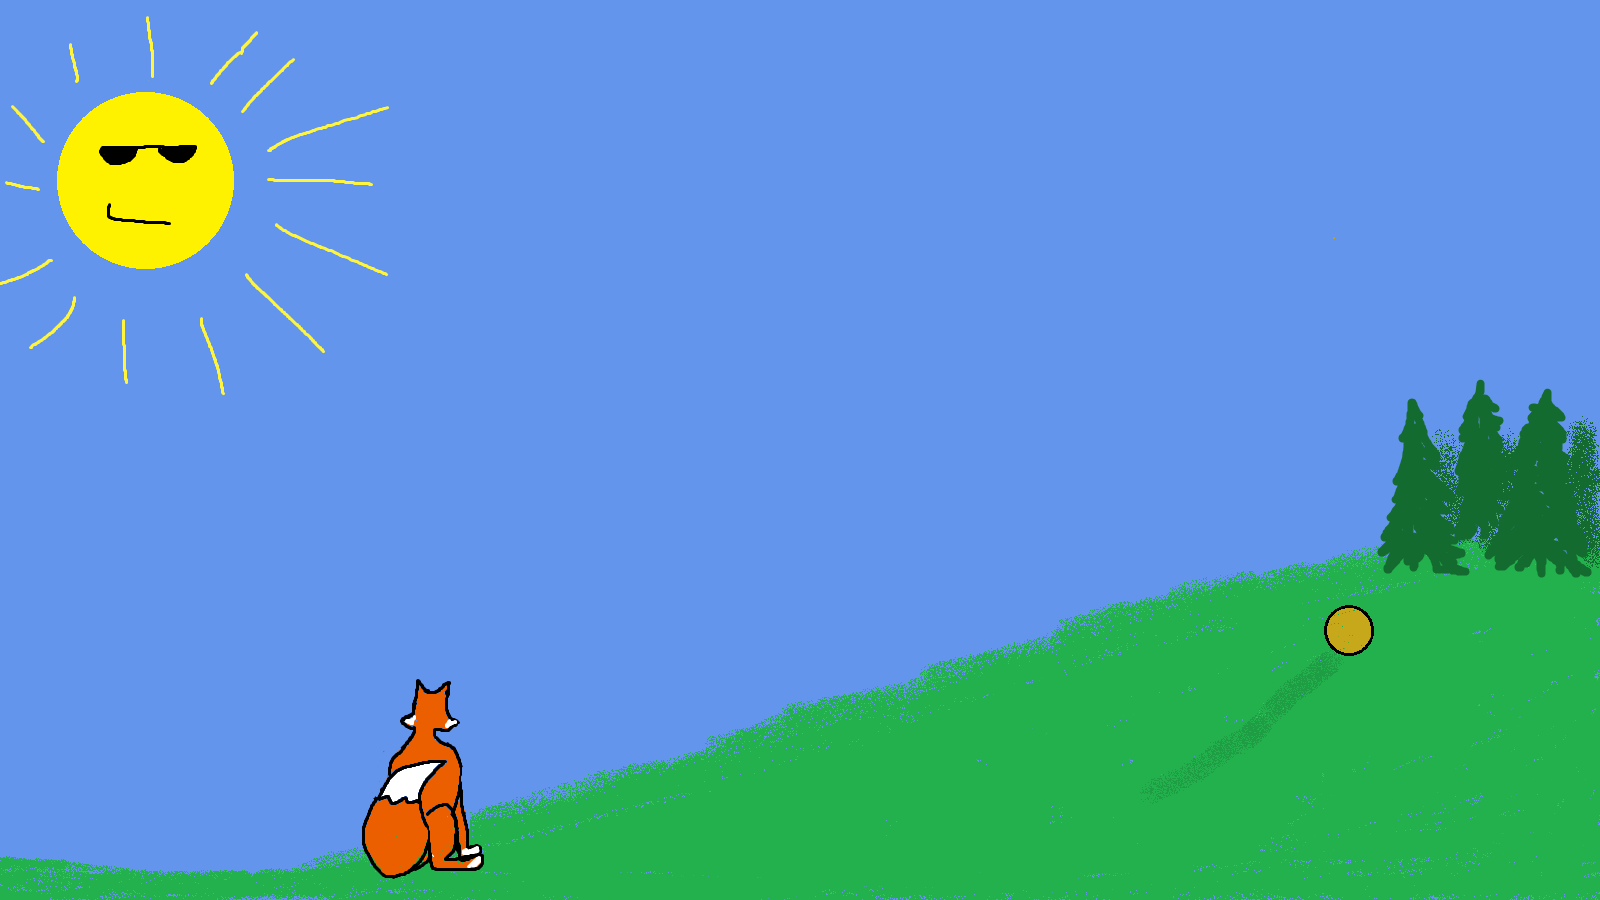
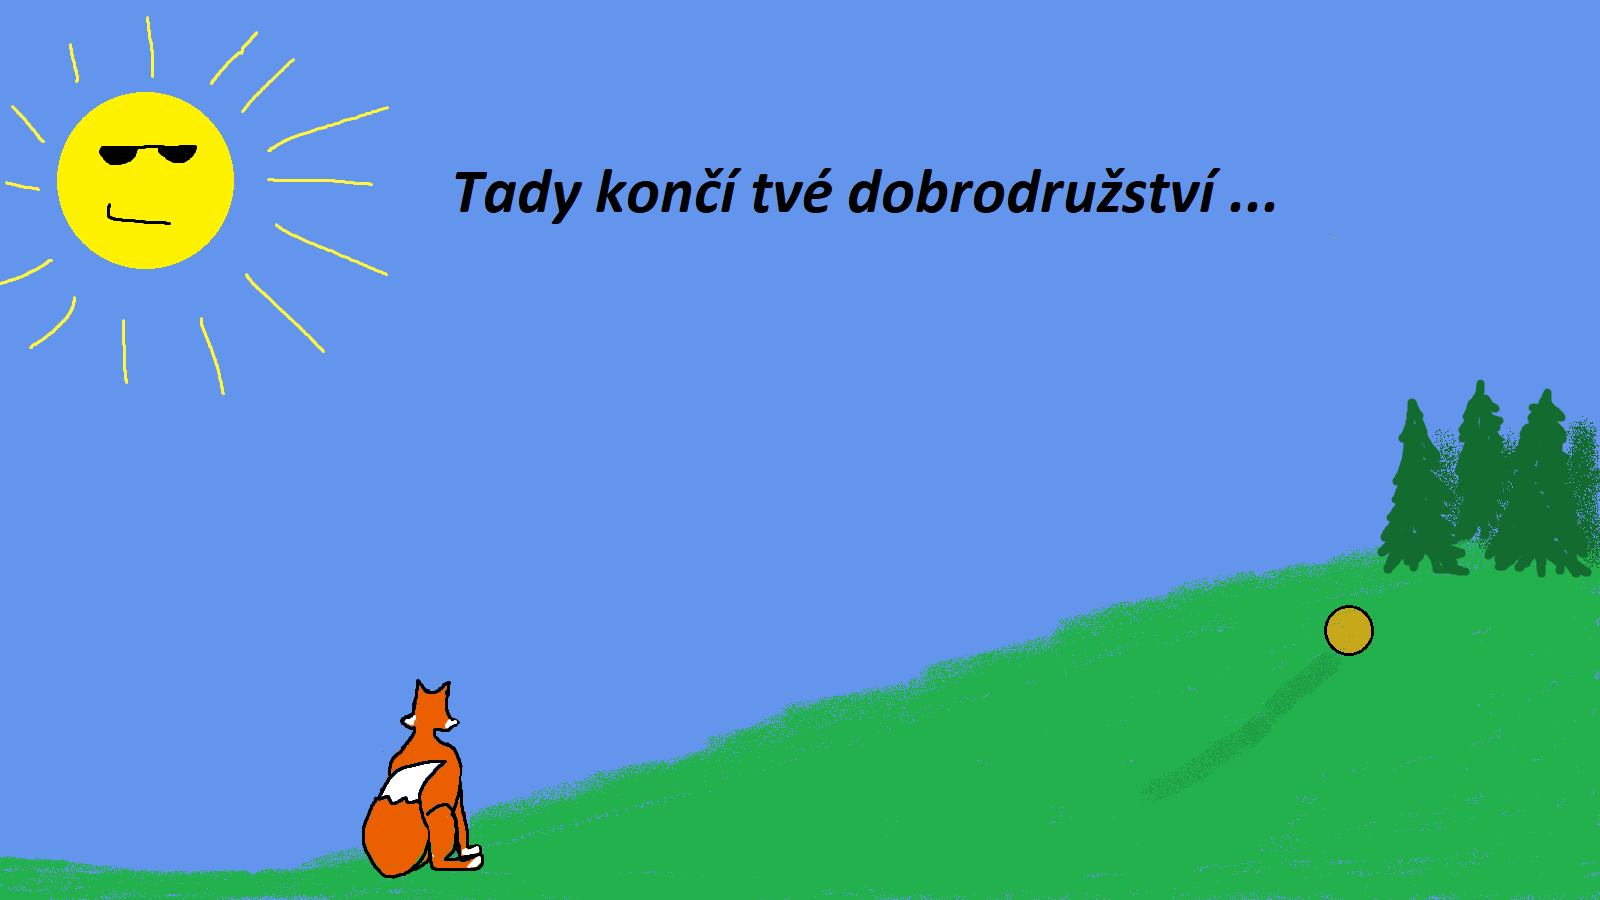
KONEC ŠMITEC FINÁLNÍ VERZE 1.0 ZDE
ok

Changed region(s): [[0.2812, 0.1867, 0.8125, 0.2489]]

diff --git a/Kobliha/Game1.cs b/Kobliha/Game1.cs
@@ -27,8 +27,8 @@ namespace Kobliha
         private int pocet_penez = 0;
         
         Koblizek kobliha;
-        NPC dedek, babka, vlk, zajic, medved, liska, stop1, stop2, stop3, stop4, lava;
-        Endingy ending1, ending2, ending3, ending4, ending5, ending6;
+        NPC dedek, babka, vlk, zajic, medved, liska, stop1, stop2, stop3, stop4, lava, vrtadlo, hovinko;
+        Endingy ending1, ending2, ending3, ending4, ending5, ending6, ending7;
         Zem zem1, zem2, zem3, zem4, zem5, zem6, zem7, zem8, zem9, zem10, zem11, zem12, zem13, zem14, zem15, zem16, zem17, zem18, zem19, zem20, zem21, zem22, zem23, zem24, zem25, zem26, zem27, zem28, zem29, zem30, zem31, zem32, zem33;
         Penize peniz1, peniz_ikona, peniz2, peniz3, peniz4, peniz5, peniz6;
         
@@ -91,6 +91,14 @@ namespace Kobliha
 
             stop4 = new NPC(GraphicsDevice, 100, "Content/obrazky/konec.png",
                 500, vyskaOkna - 600);
+            
+            vrtadlo = new NPC(GraphicsDevice, 100, "Content/obrazky/Vrtadlo1.png",
+                400, vyskaOkna - 600);
+
+            hovinko = new NPC(GraphicsDevice, 100, "Content/obrazky/hovinko.png",
+                800, vyskaOkna - 45);
+            
+            lava = new NPC(GraphicsDevice, 100, "Content/obrazky/lava.png", 100, 880);
 
             ending1 = new Endingy(GraphicsDevice, "Content/obrazky/ending1.png", 0, 0);
 
@@ -104,7 +112,8 @@ namespace Kobliha
             
             ending6 = new Endingy(GraphicsDevice, "Content/obrazky/ending6.png", 0, 0);
             
-            lava = new NPC(GraphicsDevice, 100, "Content/obrazky/lava.png", 100, 880);
+            ending7 = new Endingy(GraphicsDevice, "Content/obrazky/ending7.png", 0, 0);
+            
 
             //PLATFORMY
 
@@ -589,6 +598,11 @@ namespace Kobliha
                     kobliha.PoziceX = 400;
                     cislo_obrazovky = 7;
                 }
+
+                if (kobliha.PoziceX + kobliha.Velikost - 11 > hovinko.PoziceX && kobliha.PoziceX < hovinko.PoziceX + 50)
+                {
+                    konec = true;
+                }
             }
         }
        
@@ -691,6 +705,7 @@ namespace Kobliha
                 zem5.VykresliSe(_spriteBatch);
                 zem6.VykresliSe(_spriteBatch);
                 zem7.VykresliSe(_spriteBatch);
+                _spriteBatch.DrawString(spriteFont, "Skoc do prave zdi, aby jsi odesel z minihry", new Vector2(500, 30), Color.Black);
                 if (konec == true)
                 {
                     ending2.VykresliSe(_spriteBatch);
@@ -715,6 +730,7 @@ namespace Kobliha
                 zem16.VykresliSe(_spriteBatch);
                 zem17.VykresliSe(_spriteBatch);
                 zem18.VykresliSe(_spriteBatch);
+                _spriteBatch.DrawString(spriteFont, "Skoc do prave zdi, aby jsi odesel z minihry", new Vector2(500, 30), Color.Black);
                 if (konec == true)
                 {
                     ending3.VykresliSe(_spriteBatch);
@@ -743,6 +759,7 @@ namespace Kobliha
                 zem31.VykresliSe(_spriteBatch);
                 zem32.VykresliSe(_spriteBatch);
                 zem33.VykresliSe(_spriteBatch);
+                _spriteBatch.DrawString(spriteFont, "Skoc do prave zdi, aby jsi odesel z minihry", new Vector2(500, 30), Color.Black);
                 if (konec == true)
                 {
                     ending4.VykresliSe(_spriteBatch);
@@ -757,8 +774,13 @@ namespace Kobliha
 
             if (cislo_obrazovky == 14)
             {
-                zajic.VykresliSe(_spriteBatch);
-                vlk.VykresliSe(_spriteBatch);
+                hovinko.VykresliSe(_spriteBatch);
+                vrtadlo.VykresliSe(_spriteBatch);
+                if (konec)
+                {
+                    ending7.VykresliSe(_spriteBatch);
+                    kobliha.PoziceY = 2000;
+                }
             }
 
             if (konec != true)
